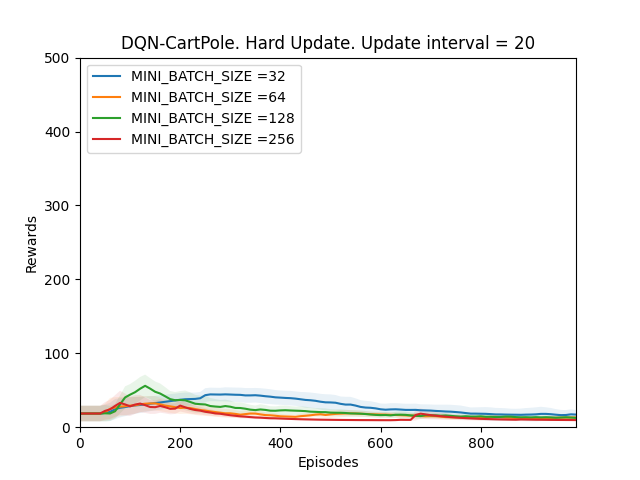
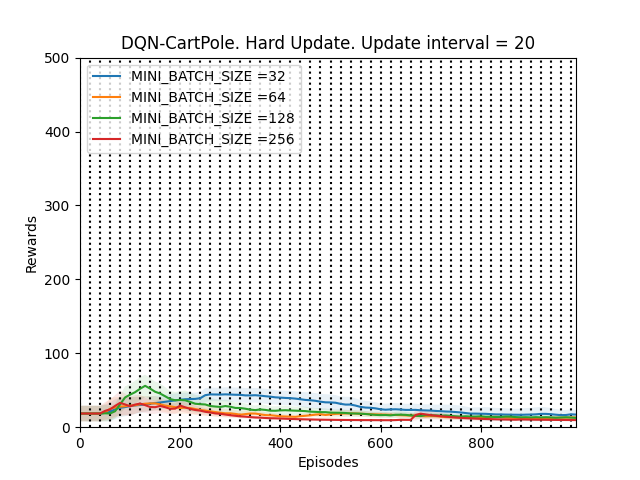
hard update 200 script

diff --git a/Performance/hard_update_100/plot.py b/Performance/hard_update_100/plot.py
@@ -6,15 +6,15 @@ from operator import sub
 #sns.set()
 
 orange = "#fe8112"
-plot_title = "DQN-CartPole. Hard Update. Update interval = 20"
+plot_title = "DQN-CartPole. Hard Update. Update interval = 100"
 beta = 0.88
 TAU0_ = "0001"
 MINI_BATCH_SIZE = [32, 64, 128, 256]
 MINI_BATCH_COL = ['#f700ff', '#0000ff', '#00ff44', '#ffa600']
 col_names = ['Episode', 'mean_score', 'std_dev']
-save_plot = "hard_update_20.png"
+save_plot = "hard_update_100.png"
 for i in range(len(MINI_BATCH_SIZE)):
-    read_performance="hard_update_20_minibatch_"+str(MINI_BATCH_SIZE[i])+".csv"
+    read_performance="hard_update_100_minibatch_"+str(MINI_BATCH_SIZE[i])+".csv"
     data = pd.read_csv(read_performance, names=col_names)
     episode = data.Episode.tolist()[1:]
     episode[:]=[int(e) for e in episode]
@@ -36,9 +36,7 @@ for i in range(len(MINI_BATCH_SIZE)):
     plt.plot(episode,score, label="MINI_BATCH_SIZE ="+str(MINI_BATCH_SIZE[i])) #, color = MINI_BATCH_COL[i])
     plt.fill_between(episode, y_min, y_max, alpha=0.1)
 #############################################################################
-x = episode[::2]
-print(x)
-plt.vlines(x,0,500,color ='k', linestyles = 'dotted')
+plt.vlines([100,200,300,400,500,600,700,800,900],0,500,color ='k', linestyles = 'dotted')
 plt.legend(loc="upper left")
 #plt.show()
 plt.savefig(save_plot)

diff --git a/Performance/hard_update_50/plot.py b/Performance/hard_update_50/plot.py
@@ -36,6 +36,7 @@ for i in range(len(MINI_BATCH_SIZE)):
     plt.plot(episode,score, label="MINI_BATCH_SIZE ="+str(MINI_BATCH_SIZE[i])) #, color = MINI_BATCH_COL[i])
     plt.fill_between(episode, y_min, y_max, alpha=0.1)
 #############################################################################
+plt.vlines([50,100,150,200,250,300,350,400,450,500,550,600,650,700,750,800,850,900],0,500,color ='k', linestyles = 'dotted')
 plt.legend(loc="upper left")
 #plt.show()
 plt.savefig(save_plot)

diff --git a/dqn.py b/dqn.py
@@ -131,7 +131,7 @@ if __name__=="__main__":
     EPISODES = 1000 # total nusmber of episodes to train for
     soft_update = False
     # for future experiments, only change these three values
-    UPDATE_TARGET_INTERVAL = 100  # Used when hard update is used 
+    UPDATE_TARGET_INTERVAL = 200  # Used when hard update is used 
     TAU = 0.0001 # used when soft update is used
     target_dir = "hard_update_100" # hard_update_20 50 100 200
 
